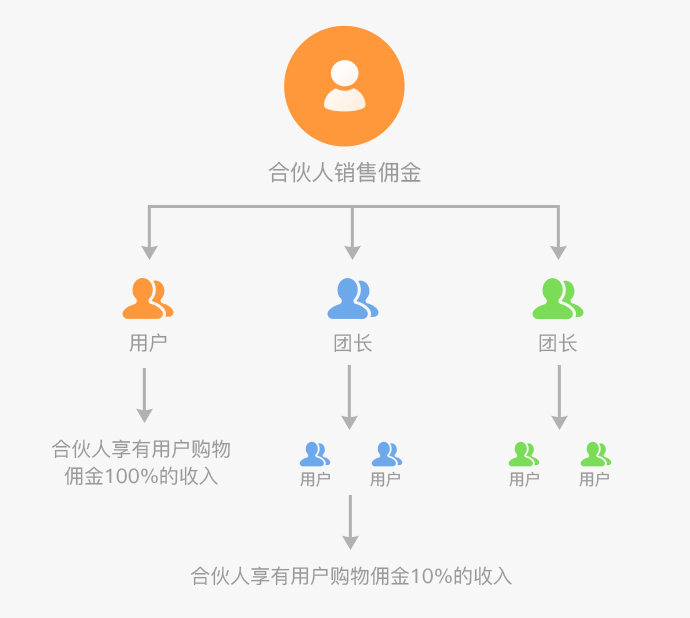
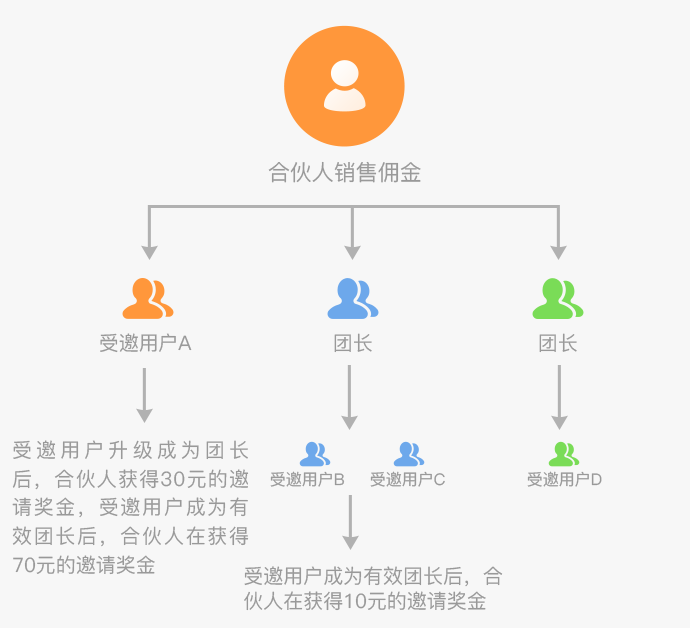
change

diff --git a/mobile/income.html b/mobile/income.html
@@ -5,7 +5,7 @@
 	<meta http-equiv="X-UA-Compatible" content="IE=edge">
     <meta name="format-detection" content="telephone=no" />
 	<meta name="viewport" content="width=device-width, initial-scale=1, maximum-scale=1, user-scalable=no">
-	<title>首页-团享会</title>
+	<title>收入详解-团享会</title>
 
 	<link rel="stylesheet" href="css/base.css">
 	<link rel="stylesheet" href="css/common.css">
@@ -49,9 +49,10 @@
 		<div class="content pb-10">
 			<div class="tit">团享会收入详解</div>
 			<p>团享会是由四川来乎科技有限公司打造的，专注美食的社交电商平台，团队成员来自华为、腾讯、阿里、凤凰传媒等。我们深入一线产地，精挑细选，打造高品质的美食。在这里，你可以体验全球美食，自己消费享受福利优惠。在这里，你可以利用碎片化时间，轻松开店，零库存一站式服务让你轻松化身社交圈分享达人。团享会，我们一起分享健康、快乐的生活方式。</p>
-			<p>团享会基于分享经济，人人都可以参与到这个平台中来自买省钱，分享赚钱，还可以实现0成本创业。可通过微信搜索小程序【团享会】访问。在这个平台中，层级关系如下，用户→团长→合伙人→超级合伙人，用户可升级为团长，团长可升级为合伙人，合伙人可升级为超级合伙人。如果级别越高，收入则越多。下面对团享会不同级别用户的收入作一个评估：</p>
+			<p>团享会基于分享经济，人人都可以参与到这个平台中来自买省钱，分享赚钱，还可以实现0成本创业。可通过微信搜索小程序【团享会】访问。在这个平台中，关系如下，用户→团长→合伙人→超级合伙人，用户可升级为团长，团长可升级为合伙人，合伙人可升级为超级合伙人。下面对团享会不同用户的收入作一个评估：</p>
 			<dl>
-				<dt>不同级别用户收入评估</dt>
+				<dt><mark>不同用户收入评估</mark></dt>
+				<dd>用户、团长、合伙人与超级合伙人之间，没有任何层级分销利润关系，只是邀请与被邀请的关系，身份平等、权利平等、收益政策平等。</dd>
 				<dd>
 					<ul>
 						<li>
@@ -101,12 +102,10 @@
 				<li>
 					<mark>三、团长的权益</mark>
 					<ol>
-						<li>1、有自己独立的小程序店铺。</li>
-						<li>2、自买省钱：团长自己购买，所有佣金全归团长自己所有。</li>
-						<li>3、销售佣金：团长将自己的小程序店铺或某个商品通过微信群，朋友圈，公众号等方式分享给用户，一旦用户购买，团长将享有该用户购物佣金100%的收益，如下图所示：
+						<li>1、有自己独立的小程序店铺、唯一小程序码和唯一邀请码。</li>
+						<li>2、自买省钱，推广赚钱：无论是自己购物或者是推荐他人在商城购物，均可赚取10%-30%的佣金。</li>
+						<li>3、邀请奖金：每推荐一位用户成为有效团长，可获得100元的邀请奖金。如下图所示，受邀用户A升级成为新团长后，原团长(邀请人)将获得30元的邀请奖金，当受邀用户成为有效团长后，原团长(邀请人)将再获得70元的邀请奖金。
 							<img src="images/income_pic_1.png" alt=""></li>
-						<li>4、邀请奖金：如下图所示，受邀用户A升级成为新团长后，原团长(邀请人)将获得30元的邀请奖金，当受邀用户成为有效团长后，原团长(邀请人)将再获得70元的邀请奖金。
-							<img src="images/income_pic_2.png" alt=""></li>
 					</ol>
 				</li>
 				<li>
@@ -117,10 +116,10 @@
 					<mark>五、合伙人的权益</mark>
 					<ol>
 						<li>1、享有团长拥有的一切权益。</li>
-						<li>2、销售佣金：合伙人不但享有自己店铺用户购物佣金100%的收益，还享有团长发展的用户购物佣金10%的收益，如下图所示：
-							<img src="images/income_pic_3.png" alt=""></li>
+						<li>2、销售佣金：合伙人直接邀请用户，合伙人获得全部佣金，通过团长直接邀请用户，合伙人得全部佣金的10%，如下图所示：
+							<img src="images/income_pic_2.png" alt=""></li>
 						<li>3、邀请奖金：如下图所示，当受邀用户A(已建立邀请关系)升级成为团长后，合伙人获得30元的邀请奖金，当受邀用户A成为有效团长后，合伙人再获得70元的邀请奖金。同时，受邀用户B，受邀用户C，受邀用户D成为有效团长，合伙人可再得10元邀请佣金
-							<img src="images/income_pic_4.png" alt=""></li>
+							<img src="images/income_pic_3.png" alt=""></li>
 					</ol>
 				</li>
 				<li>
@@ -131,16 +130,16 @@
 					<mark>七、超级合伙人的权益</mark>
 					<ol>
 						<li>1、享有团长、合伙人拥有的一切权益。</li>
-						<li>2、销售佣金：超级合伙人不但享有自己店铺用户购物佣金100%的收益，还享有团长发展的用户购物佣金10%的收益，如下图所示：
-							<img src="images/income_pic_5.png" alt=""></li>
+						<li>2、销售佣金：超级合伙人直接邀请用户，超级合伙人得全部佣金；通过团长直接邀请用户，超级合伙人得全部佣金的10%；通过合伙人直接邀请用户，超级合伙人得全部佣金的10%；通过合伙人间接邀请用户，超级合伙人得全部佣金的5%；如下图所示：
+							<img src="images/income_pic_4.png" alt=""></li>
 						<li>3、邀请奖金：如下图所示，当受邀用户A(已建立邀请关系)升级成为团长后，超级合伙人获得30元的邀请奖金，当受邀用户A成为有效团长后，超级合伙人再获得70元的邀请奖金。同时，受邀用户B，受邀用户C，受邀用户D成为有效团长，超级合伙人可再得10元邀请佣金:
-							<img src="images/income_pic_6.png" alt=""></li>
+							<img src="images/income_pic_5.png" alt=""></li>
 						<li>4、五险一金：可以和团享会公司直接签订正式合同，享受底薪，五险一金，无忧赚钱，为您的事业提供保障。</li>
 					</ol>
 				</li>
 				<li>
-					<mark>八、购物佣金分配情况一览表</mark>
-					<ol class="tabel">
+					<mark>温馨提示：如果是团长、合伙人、超级合伙人自己购物，自己享有所有购物佣金</mark>
+					<!-- <ol class="tabel">
 						<li>
 							<h5>用户→团长</h5>
 							<p>团长享有用户购物佣金100%的收益</p>
@@ -164,16 +163,16 @@
 						<li>
 							<p>如果是团长、合伙人、超级合伙人自己购物，自己享有所有购物佣金</p>
 						</li>
-					</ol>
+					</ol> -->
 				</li>
 			</ul>
 		</div>
 
 		<div class="content_2">
 			<dl>
-				<dt>目前合伙人平均月利润在1到5万左右</dt>
+				<dt><mark>目前合伙人平均月利润在1到5万左右</mark></dt>
 				<dd>一个合伙人至少有15个团长，每个团长按平均100个用户，合伙人团队人数15 x 100 = 1500人。合伙人还可以直接发展用户，平台推爆品时，假定客单价为59元，佣金为10元，前期你和你的团队做了足够的准备工作，收入非常值得期待。</dd>
-				<dt>目前超级合伙人平均月利润在10到50万左右</dt>
+				<dt><mark>目前超级合伙人平均月利润在10到50万左右</mark></dt>
 				<dd>一个超级合伙人至少有15名合伙人，每名合伙人有至少15个团长，按每个团长按平均100个用户，超级合伙人团队人数15 x 15 x 100 = 22500用户。同时，超级合伙人还可以发展直接用户。平台推爆品时，假定客单价为59元，佣金为10元，前期你和你的团队做了足够的准备工作，将会获得足够的转化率，收入非常值得期待。</dd>
 			</dl>
 		</div>

diff --git a/mobile/css/income.css b/mobile/css/income.css
@@ -27,13 +27,14 @@
 }
 
 .content > dl dt {
-	margin-top: .8rem;
-	margin-bottom: .3rem;
+	margin-top: .6rem;
+	margin-bottom: .25rem;
 	font-size: .26rem;
 	color: #666;
 	text-align: center;
 }
 .content > dl dd ul {
+	margin-top: .6rem;
 	border: 1px solid #e9e9e9;
 }
 .content > dl dd li {
@@ -65,7 +66,7 @@
 	display: inline-block;
 	background: #ffb83b;
 	margin-top: .6rem;
-	margin-bottom: .5rem;
+	margin-bottom: .2rem;
 }
 .content_1 > ul > li ol li img {
 	display: block;

diff --git a/mobile/css/common.css b/mobile/css/common.css
@@ -57,6 +57,10 @@ html {
     font-size: .3rem;
 }
 
+mark {
+	background: #ffbb02;
+}
+
 /*border*/
 .bor-rad-5 {
 	-webkit-border-radius: 5px;
